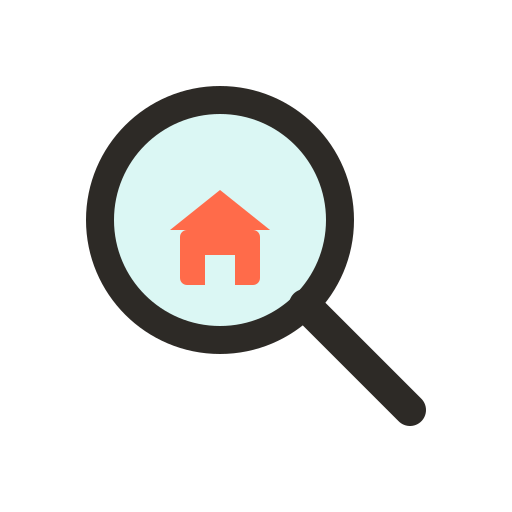
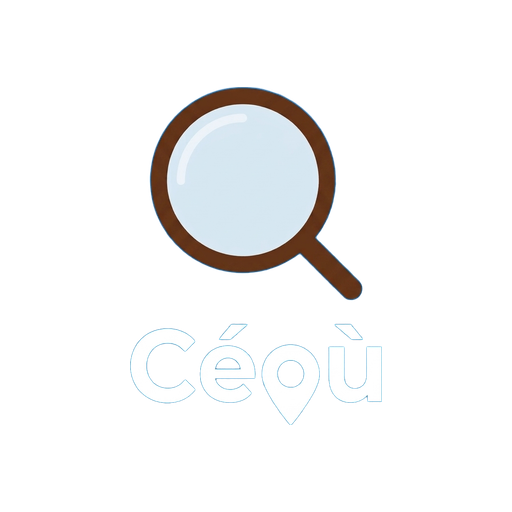
Nouvelle icone d'application (bleu #1591EA)
Icone fournie par l'utilisateur (assets/app_icon.png), declinee en :
- icon.png / splash-icon.png (1024) et favicon.png (48), redimensionnes ;
- android-icon-foreground.png : dessin detoure du fond par cle
  chromatique sur le degrade bleu reellement mesure dans l'image
  (#0491ED -> #238EE0), remis a 66% du canevas pour tenir dans la zone
  sure de l'icone adaptative -- sinon le mot "Ceou" serait rogne par le
  masque du systeme ;
- android-icon-background.png : le meme degrade, donc raccord invisible
  entre les deux couches ;
- android-icon-monochrome.png : silhouette blanche sur transparent
  (convention de l'ancien asset livre). L'interieur pale de la loupe est
  retire en plus du fond, sans quoi la silhouette transforme l'anneau en
  disque plein et le dessin devient illisible une fois teinte.

Le fond de l'icone adaptative passe de #E6F4FE a #1591EA.

Verifie visuellement : composite fond + premier plan sous masque rond, et
monochrome teinte -- pas seulement les fichiers pris isolement.

diff --git a/app.config.js b/app.config.js
@@ -32,7 +32,7 @@ module.exports = {
     android: {
       package: 'com.aantony.ceou',
       adaptiveIcon: {
-        backgroundColor: '#E6F4FE',
+        backgroundColor: '#1591EA',
         foregroundImage: './assets/android-icon-foreground.png',
         backgroundImage: './assets/android-icon-background.png',
         monochromeImage: './assets/android-icon-monochrome.png',
